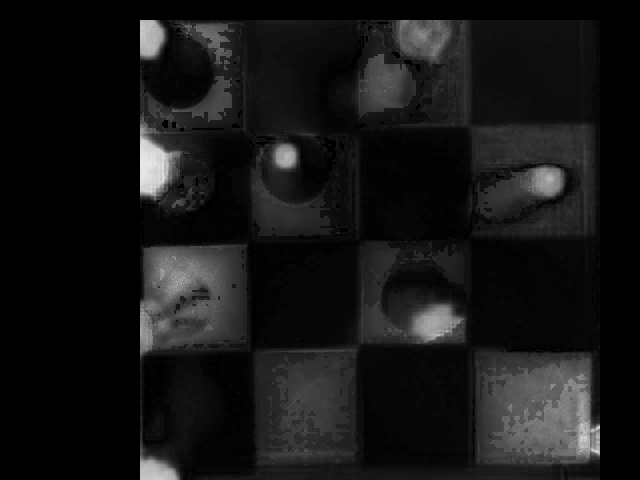
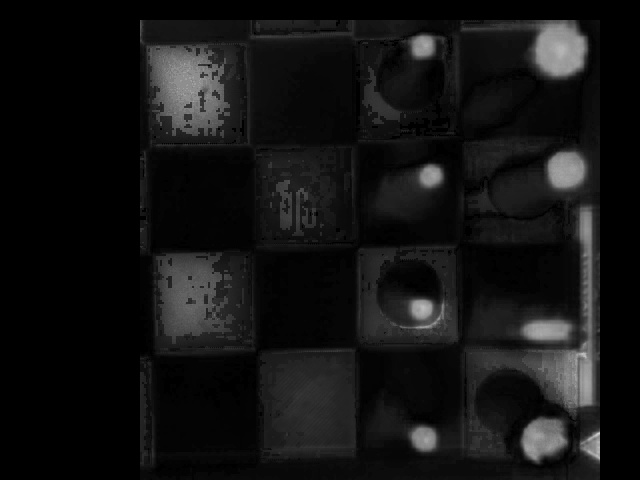
working human v bot

diff --git a/Chester.py b/Chester.py
@@ -12,6 +12,7 @@ import cv2 as cv
 import numpy as np
 import signal
 import math
+import io
 
 class Chester:
     x = 0
@@ -19,7 +20,7 @@ class Chester:
     z = 15
     ser = None
     grab_height = 0
-    move_height = 20
+    move_height = 40
     vision_height = 80
     normal_speed = 2750 #typical feedrate for moving
     z_speed = 4000 #feedrate for movement
@@ -48,7 +49,7 @@ class Chester:
         }
 
     piece_color_dict = {
-        'king':[(75, 60, 50), (100, 160, 150)],
+        'king':[(75, 70, 50), (100, 160, 150)],
         'queen':[(105, 130, 130), (115, 190, 190)],
         'bishop':[(170, 70, 20), (185, 170, 120)],
         'knight':[(15, 90, 120), (30, 170, 195)],
@@ -118,9 +119,9 @@ class Chester:
         if(letter == 't'):
             x_pos = 0
         else:
-            x_pos = (self.letterDictionary[letter]-1)*self.square_size+self.x_offset
+            x_pos = ((self.letterDictionary[letter]-1))*self.square_size+self.x_offset
         
-        y_pos = (int(number)-1)*self.square_size+self.y_offset
+        y_pos = (7-(int(number)-1))*self.square_size+self.y_offset
 
 
         self.move_to_xy(x_pos, y_pos)
@@ -144,12 +145,12 @@ class Chester:
 
         self.move_to_z(self.move_height)
 
-        self.pieces_to_arr(pieces)
+        arr = self.pieces_to_arr(pieces)
+        FEN = self.arr_to_FEN(arr)
 
         #Insert opencv magic here
         
-        FEN = random_FEN.start() #For testing
-        return FEN
+        return FEN, pieces
         #example FEN (starting position): "rnbqkbnr/pppppppp/8/8/8/8/PPPPPPPP/RNBQKBNR w KQkq - 0 1"
 
     def pieces_to_arr(self, pieces):
@@ -167,8 +168,29 @@ class Chester:
                 arr[i,j] = arr[i,j].upper()
             
         
-        print(arr)
         return arr
+
+    def arr_to_FEN(self, arr):
+        # Use StringIO to build string more efficiently than concatenating
+        with io.StringIO() as s:
+            for row in arr:
+                empty = 0
+                for cell in row:
+                    if cell != '':
+                        if empty > 0:
+                            s.write(str(empty))
+                            empty = 0
+                        s.write(cell)
+                    else:
+                        empty += 1
+                if empty > 0:
+                    s.write(str(empty))
+                s.write('/')
+            # Move one position back to overwrite last '/'
+            s.seek(s.tell() - 1)
+            # If you do not have the additional information choose what to put
+            s.write(' w - - 0 1')
+            return s.getvalue()
 
     
     def get_img_pieces(self, imgs):
@@ -266,6 +288,7 @@ class Chester:
         letter = int((center[1]-x_offset)/square_size)
         return (letter, number)
     
+    @staticmethod
     def get_legal_moves(fen_state):
         stockfish.set_fen_position(fen_state)
         stockfish._put("go perft 1")
@@ -277,7 +300,7 @@ class Chester:
             else:
                 move = l[0:4]
                 legal_moves += [str(move)]
-                    return True
+                return True
         return legal_moves
 
 

diff --git a/chester_tester.py b/chester_tester.py
@@ -16,7 +16,7 @@ from Chester import Chester
 
 #On my laptop, port is '/dev/ttyACM0'
 #On my desktop, using wsl, port should be '/dev/ttyS#' (where # is the COM port) but I can't get it to work, but setting it to tty# let's it run if you just wanna test
-ser = serial.Serial('/dev/ttyACM0', 115200)
+ser = serial.Serial('/dev/ttyACM1', 115200)
 
 
 
@@ -36,38 +36,39 @@ signal.signal(signal.SIGINT, signal_handler)
 #Assumes that chessboard is 8x8" and that z height is set so the claw can pick up pieces 
 player = input("Would you like to play white or black pieces? (Type w or b)")
 print("Standby...")
-current = chester.calculate_fen_position()        #This takes a picture and analyzes it, then generates the fen position of the board and returns it as a string
-print(current)
 # while True:
-#     move = input("Enter a square to move to: ")
-#     if(move == "grab"):
-#         chester.grab_piece()
-#     elif(move == "drop"):
-#         chester.drop_piece()
-#     else:
-#         chester.move_square(move)
-# if(player == "w"):
-#     input("Make your first move, then press Enter")
+    # move = input("Enter a square to move to: ")
+    # if(move == "grab"):
+    #     chester.grab_piece()
+    # elif(move == "drop"):
+    #     chester.drop_piece()
+    # else:
+    #     chester.move_square(move)
+if(player == "w"):
+    input("Make your first move, then press Enter")
 # else:
 #     print("I'm making my first move")
 #     time.sleep(10)
 #     chester.move_piece("d2d4")
 #     input("Make your move, then press Enter")
 
-# winner = False      #Need to check if there's a winner after each move and if so: break the loop
-# while(not winner):
-#     current = chester.calculate_fen_position()        #This takes a picture and analyzes it, then generates the fen position of the board and returns it as a string
-#     print(current)
-#     stockfish.set_fen_position(current)
-#     print(stockfish.get_board_visual())
-#     time.sleep(1)
-#     move = str(stockfish.get_best_move())
-#     if(move == "None"):
-#         print("No possible move or something")
-#         exit()
-#     print("Moving " + move)
-#     chester.move_piece(move)
-#     input("Make your move, then press Enter")
+winner = False      #Need to check if there's a winner after each move and if so: break the loop
+while(not winner):
+    fen, pieces = chester.calculate_fen_position()        #This takes a picture and analyzes it, then generates the fen position of the board and returns it as a string
+    print(fen)
+    stockfish.set_fen_position(fen)
+    print(stockfish.get_board_visual())
+    time.sleep(1)
+    move = str(stockfish.get_best_move())
+    if(move == "None"):
+        print("No possible move or something")
+        exit()
+    for p in pieces:
+        if(move[2:4] == p["square"]):
+            chester.move_piece(move[2:4] + 't0')
+    print("Moving " + move)
+    chester.move_piece(move)
+    input("Make your move, then press Enter")
 
 # pictures = [cv.imread("Q1.jpg"), cv.imread("Q2.jpg"), cv.imread("Q3.jpg") ,cv.imread("Q4.jpg")]
 # print(chester.get_img_pieces(pictures))

diff --git a/cv_cmds.py b/cv_cmds.py
@@ -103,7 +103,7 @@ green = [(75, 60, 50), (100, 160, 150)]
 
 
 
-img = cv.imread("cntr2.jpg")
+img = cv.imread("Q1.jpg")
 hsv = cv.cvtColor(img, cv.COLOR_BGR2HSV)
 mask = cv.inRange(hsv, S_mask[0], S_mask[1])
 img = cv.bitwise_and(hsv, hsv, mask=mask)

diff --git a/raiseZ.py b/raiseZ.py
@@ -6,7 +6,7 @@ import sys
 #ser.write(b'G\r\n')
 #time.sleep(1)
 
-ser = serial.Serial('/dev/ttyACM0', 115200)
+ser = serial.Serial('/dev/ttyACM1', 115200)
 amt = sys.argv[1]
 time.sleep(2)
 print("hi")
